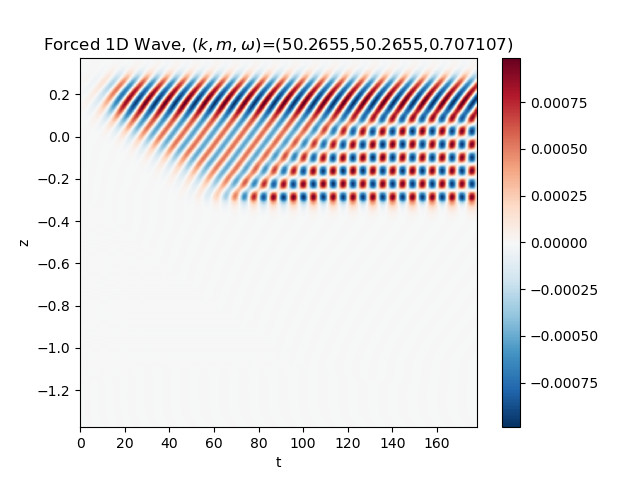
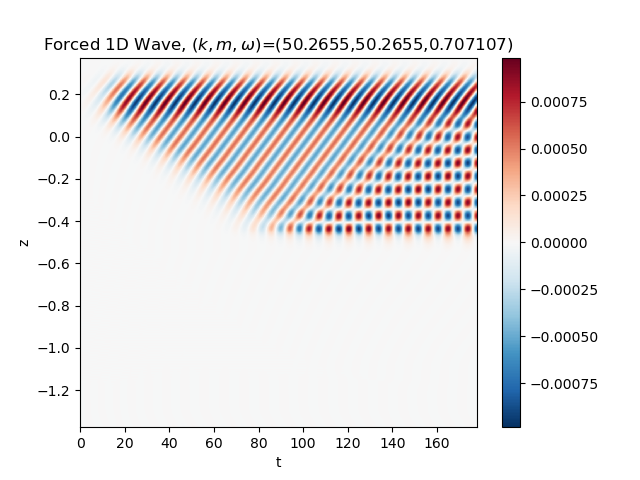
Added helper function file, but can't import to other files

diff --git a/helper_functions.py b/helper_functions.py
@@ -1,0 +1,50 @@
+# Helper functions for Dedalus experiment
+"""
+Description:
+This contains helper functions for the Dedalus code so the same version of functions can be called by multiple scripts
+"""
+
+import numpy as np
+import matplotlib.pyplot as plt
+import sys
+import switchboard as sbp
+
+# Background profile in N_0
+def BP_n_steps(n, z, z0_dis, zf_dis, th):
+    """
+    n           number of steps
+    z           array of z values
+    z0_dis      bottom of display domain
+    zf_dis      top of display domain
+    th          step thickness
+    """
+    # create blank array the same size as z
+    BP_array = z*0+1
+    # divide the display range for n steps
+    Lz_dis = zf_dis - z0_dis
+    # find step separation
+    step_sep = Lz_dis / (n+1)
+    for i in range(n):
+        step_c   = zf_dis - (i+1)*step_sep
+        step_top = step_c + (th/2)
+        step_bot = step_c - (th/2)
+        for j in range(len(BP_array)):
+            if z[j] < step_top and z[j] > step_bot:
+                BP_array[j] = 0
+    return BP_array
+
+# Plot background profile
+def plot_BP(ax, BP, z):
+    ax.plot(BP, z, label='Background profile')
+    ax.set_xlabel('$N_0$')
+    ax.set_ylabel(r'$z$')
+    ax.set_title(r'Background Profile')
+
+# fig, axes = plt.subplots(nrows=1, ncols=1)
+# #
+# z = np.linspace(0.2, -1.2, 1024)
+# z0_dis = -1
+# zf_dis = 0
+# BP_array = BP_n_steps(1, z, z0_dis, zf_dis, 0.2)
+# plot_BP(axes, BP_array, z)
+# plt.show()

diff --git a/plot_slices.py b/plot_slices.py
@@ -32,6 +32,7 @@ switchboard = args['SWITCHBOARD']
 h5_files = args['<files>']
 
 import switchboard as sbp
+import helper_functions as hfuncts
 
 import pathlib
 output_path = pathlib.Path(args['--output']).absolute()
@@ -88,13 +89,6 @@ def format_labels_and_ticks(ax):
     x0, xf = ax.get_xlim()
     ax.xaxis.set_ticks([x0, 0.0, xf])
     ax.xaxis.set_major_formatter(ticker.FuncFormatter(latex_exp))
-
-# Plot background profile
-def plot_BP(ax, BP, z):
-    ax.plot(BP, z, label='Background profile')
-    ax.set_xlabel('$N_0$')
-    ax.set_ylabel(r'$z$')
-    ax.set_title(r'Background Profile')
 
 # Saves figure as a frame
 def save_fig_as_frame(fig, index, output, dpi):
@@ -175,7 +169,7 @@ for i in range(t_len):
     # Set ratios by passing dictionary as 'gridspec_kw', and share y axis
     fig, ax = plt.subplots(nrows=rows, ncols=cols, gridspec_kw=plot_ratios, sharey=True)
     # Plot background profile
-    plot_BP(ax[0], BP, z_axis)
+    hfuncts.plot_BP(ax[0], BP, z_axis)
     # Plot the task
     plot_task(ax[1], i, 0, z_axis, dsets)
     # Add title for overall figure

diff --git a/main.py b/main.py
@@ -31,6 +31,9 @@ import sys
 arg_array = sys.argv
 switchboard = str(arg_array[0])
 
+sys.path.append("../") # Adds higher directory to python modules path
+import helper_functions as hf
+
 ###############################################################################
 # Import SwitchBoard Parameters (sbp)
 #   This import assumes the switchboard is in the same directory as the core code
@@ -140,10 +143,7 @@ if sbp.plot_windows:
     # Set ratios by passing dictionary as 'gridspec_kw', and share y axis
     fig, axes = plt.subplots(nrows=1, ncols=2, gridspec_kw=plot_ratios, sharey=True)
     #
-    axes[0].plot(sbp.BP_array, z, label='Background profile')
-    axes[0].set_xlabel('$N_0$')
-    axes[0].set_ylabel(r'$z$')
-    axes[0].set_title(r'Background Profile')
+    hf.plot_BP(axes[0], sbp.BP_array, z)
     #
     axes[1].plot(sbp.win_bf_array, z, label='Boundary forcing')
     axes[1].plot(sbp.win_sp_array, z, label='Sponge layer')

diff --git a/switchboard.py b/switchboard.py
@@ -6,6 +6,9 @@ This is the switchboard for the Dedalus experiment. This file contains parameter
 
 import numpy as np
 from dedalus import public as de
+import sys
+sys.path.append("../") # Adds higher directory to python modules path
+import helper_functions as hf
 
 ###############################################################################
 # Main parameters, the ones I'll change a lot. Many more below
@@ -62,10 +65,9 @@ z_da = domain.grid(0, scales=domain.dealias)
 z = domain.grid(0)
 
 # Background profile in N_0
-BP_array = z*0+1
-for i in range(len(BP_array)):
-    if z[i] < -0.3 and z[i] > -0.4:
-        BP_array[i] = 0
+n_steps = 1
+step_th = 0.1
+BP_array = hf.BP_n_steps(n_steps, z, z0_dis, zf_dis, step_th)
 
 # Boundary forcing window 2
 c_bf    = zf - buff_bf          # [m] location of center of boundary forcing window
